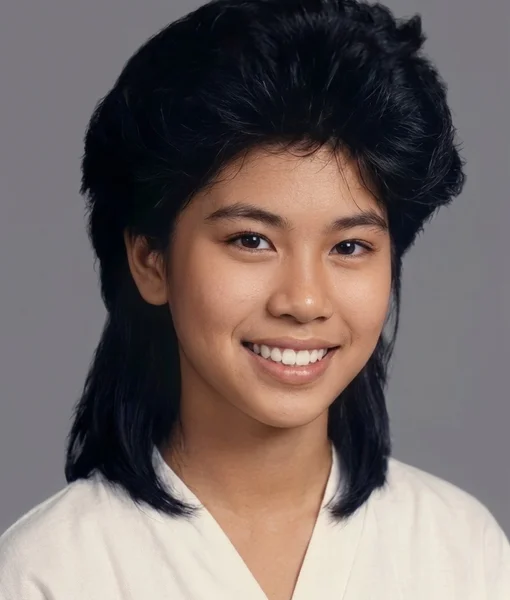
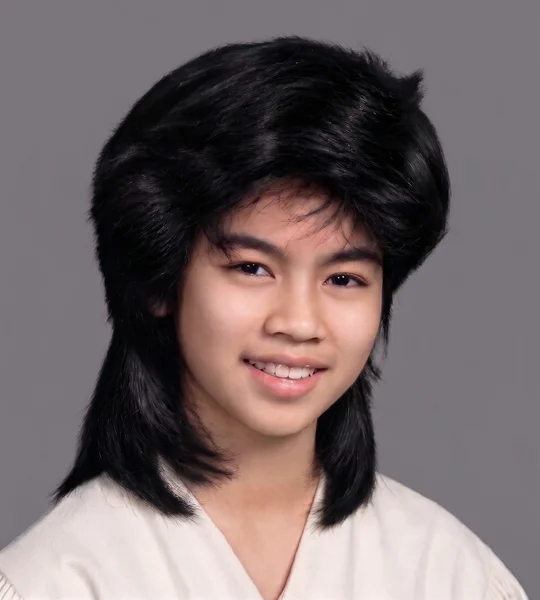
Update jovie photo

diff --git a/src/app/models.ts b/src/app/models.ts
@@ -1126,7 +1126,7 @@ export const sections: SectionData[] = [
       { role: 'President', name: 'Myra C. Laforteza', shortName: 'Myra Laforteza' },
       { role: 'Vice-President', name: 'Michael P. Mutuc', shortName: 'Michael Mutuc' },
       { role: 'Secretary', name: 'Salmer P. Espinosa', shortName: 'Salmer Espinosa' },
-      { role: 'Treasurer', name: 'Mary Gretchen Martinez', shortName: 'Gretchen Martinez' },
+      { role: 'Treasurer', name: 'Mary Gretchen L.Martinez', shortName: 'Gretchen Martinez' },
       { role: 'P.R.O.', name: 'Michelle Macapagal', shortName: 'Michelle Macapagal' },
       { role: 'Sgt. at Arms', name: 'Ramil B. Tuason', shortName: 'Ramil Tuason' }
     ],
@@ -1174,7 +1174,7 @@ export const sections: SectionData[] = [
       { name: 'Ma. Theresa L. Largoza', image: 'students/theresa-largoza.webp' },
       { name: 'Rosemarie Fe A. De Leon', image: 'students/rosemarie-deleon.webp' },
       { name: 'Michelle Macapagal', image: 'students/michelle-macapagal.webp' },
-      { name: 'Mary Gretchen Martinez', image: 'students/mary-martinez.webp' },
+      { name: 'Mary Gretchen L. Martinez', image: 'students/mary-martinez.webp' },
       { name: 'Catherine R. Miranda', image: 'students/catherine-miranda.webp' },
       { name: 'Jovie Anne Munar', image: 'students/jovie-munar.webp' },
       { name: 'Alma R. Pantaleon', image: 'students/alma-pantaleon.webp' },
@@ -1286,7 +1286,7 @@ export const sections: SectionData[] = [
       { name: 'Frederick D. Buhat', image: 'students/frederick-buhat.webp' },
       { name: 'Renato D. Burdeos', image: 'students/renato-burdeos.webp' },
       { name: 'Rex V. Calumpang', image: 'students/rex-calupang.webp' },
-      { name: 'Erickson J. J. Capulong', image: 'students/erickson-capulong.webp' },
+      { name: 'Erickson J. Capulong', image: 'students/erickson-capulong.webp' },
       { name: 'Joel M. De Castro', image: 'students/joel-decastro.webp' },
       { name: 'Eric Michael C. Cayanan', image: 'students/eric-cayahan.webp' },
       { name: 'Frederick Q. Cayetano', image: 'students/frederick-cayetano.webp' },
